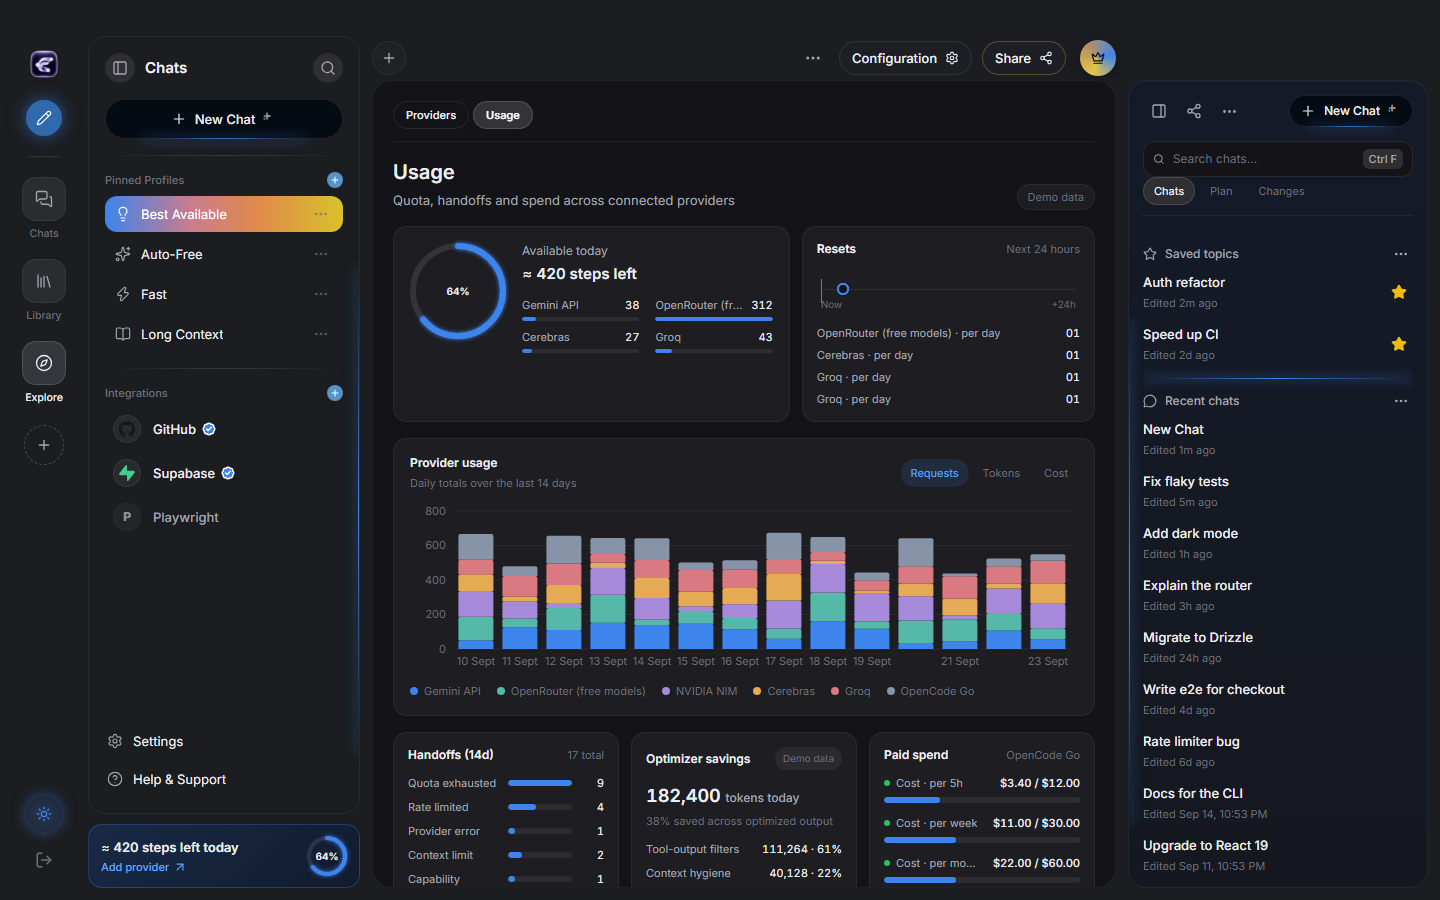
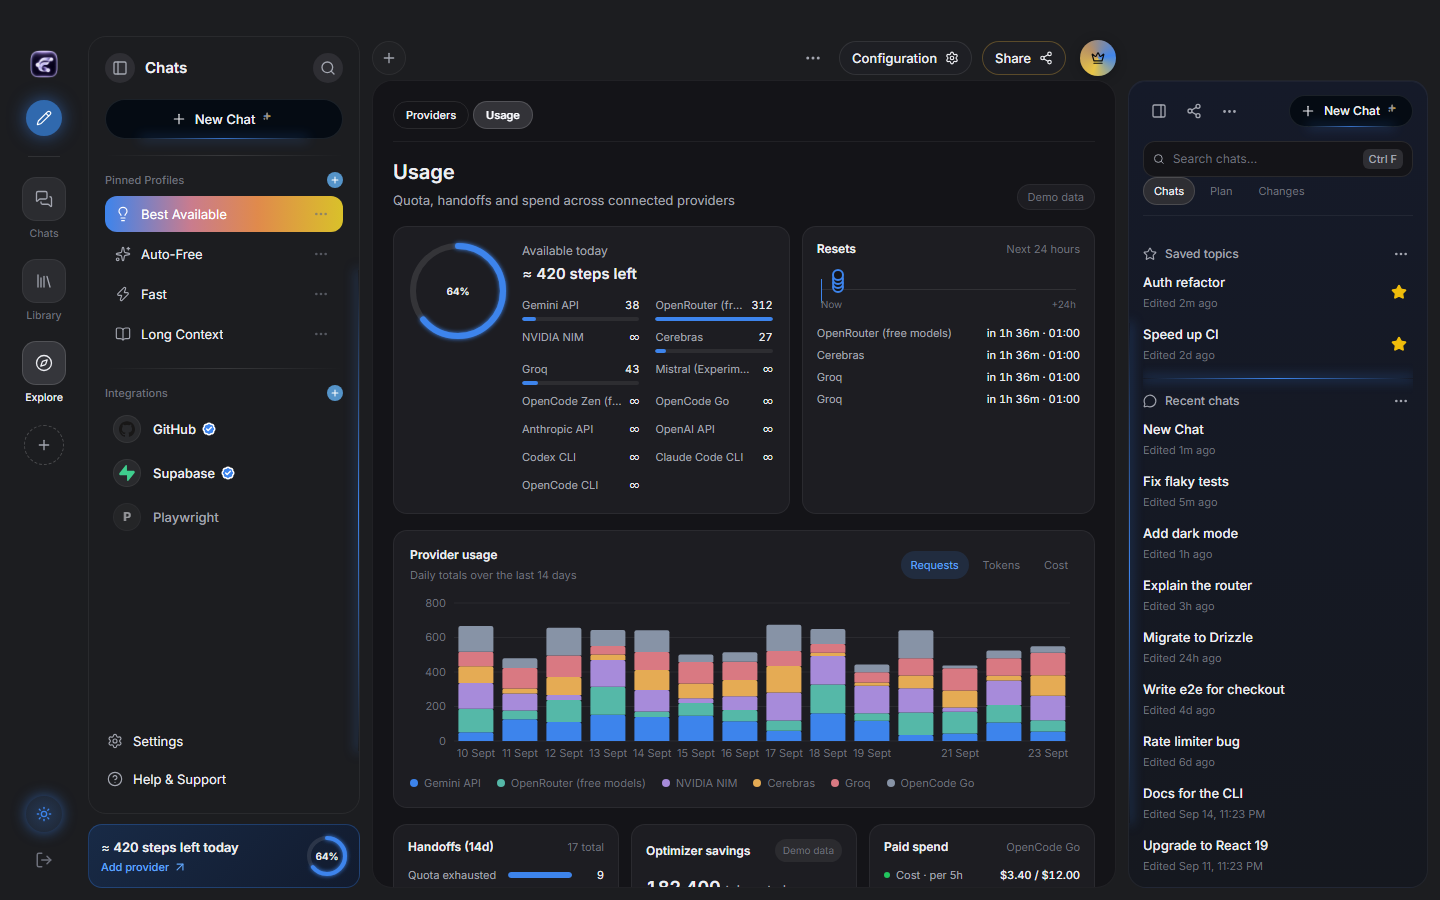
fix(desktop,ui): brand marks on provider cards, Free/Promo/Paid/CLI tag wording, working resets timeline, no-cap providers [A4a-d1]

diff --git a/packages/ui/src/components/charts/ResetsTimeline.tsx b/packages/ui/src/components/charts/ResetsTimeline.tsx
@@ -1,8 +1,20 @@
 import { useEffect, useState } from 'react';
 import type { CapacitySummary } from '@ferry/shared';
 
+function relativeLabel(date: string, now: number): string {
+  const minutes = Math.max(1, Math.floor((new Date(date).getTime() - now) / 60_000));
+  const hours = Math.floor(minutes / 60);
+  const remainingMinutes = minutes % 60;
+  if (hours === 0) return `in ${String(remainingMinutes)}m`;
+  return `in ${String(hours)}h ${String(remainingMinutes)}m`;
+}
+
 function timeLabel(date: string): string {
-  return new Intl.DateTimeFormat(undefined, { hour: 'numeric' }).format(new Date(date));
+  return new Intl.DateTimeFormat(undefined, {
+    hour: '2-digit',
+    hourCycle: 'h23',
+    minute: '2-digit',
+  }).format(new Date(date));
 }
 export function ResetsTimeline({
   summary,
@@ -21,9 +33,10 @@ export function ResetsTimeline({
     };
   }, []);
   const end = now + 86_400_000;
-  const resets = summary.nextResets.filter(
-    (reset) => new Date(reset.at).getTime() > now && new Date(reset.at).getTime() < end,
-  );
+  const resets = summary.nextResets
+    .filter((reset) => new Date(reset.at).getTime() > now && new Date(reset.at).getTime() < end)
+    .sort((a, b) => new Date(a.at).getTime() - new Date(b.at).getTime());
+  const placedMarkers: { position: number; lane: number }[] = [];
   return (
     <section
       aria-label="Upcoming quota resets"
@@ -47,12 +60,27 @@ export function ResetsTimeline({
             0,
             Math.min(100, ((new Date(reset.at).getTime() - now) / 86_400_000) * 100),
           );
+          const occupiedLanes = new Set(
+            placedMarkers
+              .filter((marker) => Math.abs(marker.position - position) < 4.5)
+              .map((marker) => marker.lane),
+          );
+          let lane = 0;
+          while (occupiedLanes.has(lane)) lane += 1;
+          placedMarkers.push({ position, lane });
+          const providerName = providerNames[reset.providerId] ?? reset.providerId;
+          const label = `${providerName} · ${relativeLabel(reset.at, now)} · ${timeLabel(reset.at)}`;
           return (
-            <span
-              className="absolute top-3.5 size-3 -translate-x-1/2 rounded-full border-2 border-blue-500 bg-canvas"
+            <button
+              aria-label={label}
+              className="absolute size-3 -translate-x-1/2 rounded-full border-2 border-blue-500 bg-canvas hover:scale-125 focus-visible:outline-none focus-visible:ring-2 focus-visible:ring-blue-500/40"
               key={reset.windowId}
-              style={{ left: `${String(position)}%` }}
-              title={`${providerNames[reset.providerId] ?? reset.providerId} · ${timeLabel(reset.at)}`}
+              style={{
+                left: `${String(position)}%`,
+                top: `${String(Math.max(0, 12 - lane * 4))}px`,
+              }}
+              title={label}
+              type="button"
             />
           );
         })}
@@ -65,10 +93,11 @@ export function ResetsTimeline({
         {resets.slice(0, 4).map((reset) => (
           <li className="flex justify-between gap-2 text-meta" key={reset.windowId}>
             <span className="truncate text-text-2">
-              {providerNames[reset.providerId] ?? reset.providerId} ·{' '}
-              {reset.label.split('·').at(-1)?.trim() ?? reset.label}
+              {providerNames[reset.providerId] ?? reset.providerId}
             </span>
-            <time className="shrink-0 tabular-nums text-text-1">{timeLabel(reset.at)}</time>
+            <time className="shrink-0 tabular-nums text-text-1">
+              {relativeLabel(reset.at, now)} · {timeLabel(reset.at)}
+            </time>
           </li>
         ))}
         {resets.length === 0 && <li className="text-meta text-text-3">No scheduled resets</li>}

diff --git a/packages/ui/src/components/charts/ResetsTimeline.test.tsx b/packages/ui/src/components/charts/ResetsTimeline.test.tsx
@@ -1,6 +1,6 @@
 // @vitest-environment jsdom
-import { render, screen } from '@testing-library/react';
-import { describe, expect, it } from 'vitest';
+import { cleanup, render, screen } from '@testing-library/react';
+import { afterEach, describe, expect, it, vi } from 'vitest';
 import type { CapacitySummary } from '@ferry/shared';
 import { ResetsTimeline } from './ResetsTimeline';
 const summary: CapacitySummary = {
@@ -13,8 +13,51 @@ const summary: CapacitySummary = {
   updatedAt: new Date().toISOString(),
 };
 describe('ResetsTimeline', () => {
+  afterEach(() => {
+    cleanup();
+    vi.useRealTimers();
+  });
+
   it('provides a useful empty state for reset schedules', () => {
     render(<ResetsTimeline summary={summary} providerNames={{}} />);
     expect(screen.getByText('No scheduled resets')).toBeTruthy();
+  });
+
+  it('draws and labels each reset within the next 24 hours', () => {
+    vi.useFakeTimers();
+    const now = new Date('2026-09-23T12:00:00.000Z');
+    vi.setSystemTime(now);
+    type ProviderId = CapacitySummary['nextResets'][number]['providerId'];
+    const resets = [
+      { providerId: 'alpha' as ProviderId, windowId: 'alpha-day', label: 'Daily', minutes: 127 },
+      { providerId: 'beta' as ProviderId, windowId: 'beta-day', label: 'Daily', minutes: 127 },
+      { providerId: 'gamma' as ProviderId, windowId: 'gamma-week', label: 'Weekly', minutes: 720 },
+      {
+        providerId: 'delta' as ProviderId,
+        windowId: 'delta-month',
+        label: 'Monthly',
+        minutes: 1380,
+      },
+    ].map(({ minutes, ...reset }) => ({
+      ...reset,
+      at: new Date(now.getTime() + minutes * 60_000).toISOString(),
+    }));
+    render(
+      <ResetsTimeline
+        providerNames={{ alpha: 'Alpha', beta: 'Beta', gamma: 'Gamma', delta: 'Delta' }}
+        summary={{ ...summary, nextResets: resets }}
+      />,
+    );
+
+    const markers = screen.getAllByRole('button');
+    expect(markers).toHaveLength(4);
+    const markerPositions = markers.map((marker) =>
+      Number.parseFloat(marker.getAttribute('style')?.match(/left: ([\d.]+)%/)?.[1] ?? '0'),
+    );
+    expect(markerPositions).toEqual([...markerPositions].sort((a, b) => a - b));
+    expect(markers[0]?.getAttribute('style')).not.toBe(markers[1]?.getAttribute('style'));
+    expect(markers[0]?.getAttribute('aria-label')).toContain('Alpha · in 2h 7m ·');
+    expect(screen.getAllByText(/in 2h 7m · \d{2}:\d{2}/)).toHaveLength(2);
+    expect(screen.getByText(/in 23h 0m · \d{2}:\d{2}/)).toBeTruthy();
   });
 });

diff --git a/apps/desktop/src/renderer/app/explore/Usage.tsx b/apps/desktop/src/renderer/app/explore/Usage.tsx
@@ -140,26 +140,34 @@ export function UsageCanvas() {
                 ≈ <CountUp to={capacity?.stepsLeftToday ?? 0} /> steps left
               </p>
               <ul className="mt-3 grid grid-cols-2 gap-x-4 gap-y-2">
-                {(capacity?.perProvider ?? [])
-                  .filter((item) => item.stepsLeft !== null)
-                  .map((item) => (
-                    <li className="min-w-0" key={item.providerId}>
-                      <div className="mb-1 flex justify-between gap-2 text-meta">
-                        <span className="truncate text-text-2">
-                          {names[item.providerId] ?? item.providerId}
+                {(capacity?.perProvider ?? []).map((item) => (
+                  <li className="min-w-0" key={item.providerId}>
+                    <div className="mb-1 flex justify-between gap-2 text-meta">
+                      <span className="truncate text-text-2">
+                        {names[item.providerId] ?? item.providerId}
+                      </span>
+                      {item.stepsLeft === null ? (
+                        <span
+                          aria-label={`${names[item.providerId] ?? item.providerId} has no daily cap`}
+                          className="text-label text-text-1"
+                          title="No daily cap"
+                        >
+                          ∞
                         </span>
-                        <span className="tabular-nums text-text-1">
-                          {item.stepsLeft === null ? '—' : format(item.stepsLeft)}
-                        </span>
-                      </div>
+                      ) : (
+                        <span className="tabular-nums text-text-1">{format(item.stepsLeft)}</span>
+                      )}
+                    </div>
+                    {item.stepsLeft !== null && (
                       <div className="h-1 overflow-hidden rounded-pill bg-white/[0.07]">
                         <span
                           className="block h-full rounded-pill bg-blue-500"
-                          style={{ width: `${String(((item.stepsLeft ?? 0) / maxSteps) * 100)}%` }}
+                          style={{ width: `${String((item.stepsLeft / maxSteps) * 100)}%` }}
                         />
                       </div>
-                    </li>
-                  ))}
+                    )}
+                  </li>
+                ))}
               </ul>
             </div>
           </section>

diff --git a/packages/ui/src/components/primitives/index.tsx b/packages/ui/src/components/primitives/index.tsx
@@ -1,6 +1,14 @@
 import { useId, type ButtonHTMLAttributes, type CSSProperties, type ReactNode } from 'react';
 import { cva, type VariantProps } from 'class-variance-authority';
-import { siGithub, siSupabase } from 'simple-icons';
+import {
+  siAnthropic,
+  siGithub,
+  siGooglegemini,
+  siMistralai,
+  siNvidia,
+  siOpenrouter,
+  siSupabase,
+} from 'simple-icons';
 import { BadgeCheck, Plus, Sparkles } from 'lucide-react';
 import { GlowLine } from '../../effects/GlowLine';
 import { cn } from '../../lib/cn';
@@ -142,7 +150,12 @@ export function VerifiedBadge({ className }: { className?: string }) {
 }
 
 const brandIcons: Record<string, typeof siGithub | undefined> = {
+  anthropic: siAnthropic,
   github: siGithub,
+  googlegemini: siGooglegemini,
+  mistralai: siMistralai,
+  nvidia: siNvidia,
+  openrouter: siOpenrouter,
   supabase: siSupabase,
 };
 export function BrandIcon({

diff --git a/packages/ui/src/components/providers/ProviderCard.test.tsx b/packages/ui/src/components/providers/ProviderCard.test.tsx
@@ -26,7 +26,13 @@ describe('ProviderCard', () => {
   it('exposes provider key status and actions', () => {
     render(<ProviderCard provider={provider} onTest={vi.fn()} onManageKey={vi.fn()} />);
     expect(screen.getByText('Key: missing')).toBeTruthy();
+    expect(screen.getByText('Free')).toBeTruthy();
     expect(screen.getByRole('button', { name: 'Test Gemini API' })).toBeTruthy();
     expect(screen.getByRole('button', { name: 'Manage key' })).toBeTruthy();
+  });
+
+  it('describes providers without a daily step cap', () => {
+    render(<ProviderCard provider={{ ...provider, stepsLeftToday: null }} />);
+    expect(screen.getByText('Rate-limited · no daily cap')).toBeTruthy();
   });
 });

diff --git a/packages/ui/src/components/providers/ProviderCard.tsx b/packages/ui/src/components/providers/ProviderCard.tsx
@@ -101,7 +101,13 @@ export function ProviderCard({
         )}
         <footer className="flex flex-wrap items-center gap-2 border-t border-border-hair pt-2.5">
           <span className="mr-auto text-meta text-text-2">
-            ≈ <CountUp to={provider.stepsLeftToday ?? 0} /> steps today
+            {provider.stepsLeftToday === null ? (
+              'Rate-limited · no daily cap'
+            ) : (
+              <>
+                ≈ <CountUp to={provider.stepsLeftToday} /> steps today
+              </>
+            )}
           </span>
           <Pill
             aria-label={`Test ${provider.name}`}

diff --git a/packages/ui/src/components/primitives/BrandIcon.test.tsx b/packages/ui/src/components/primitives/BrandIcon.test.tsx
@@ -6,6 +6,8 @@ describe('BrandIcon', () => {
   it('renders a brand icon and monogram fallback', () => {
     const { rerender } = render(<BrandIcon slug="github" label="GitHub" />);
     expect(screen.getByRole('img', { name: 'GitHub' })).toBeTruthy();
+    rerender(<BrandIcon slug="openrouter" label="OpenRouter" />);
+    expect(screen.getByRole('img', { name: 'OpenRouter' }).querySelector('svg')).toBeTruthy();
     rerender(<BrandIcon slug="custom" />);
     expect(screen.getByText('C')).toBeTruthy();
   });

diff --git a/apps/desktop/src/renderer/app/explore/Explore.test.tsx b/apps/desktop/src/renderer/app/explore/Explore.test.tsx
@@ -112,7 +112,7 @@ describe('Explore providers and models', () => {
   it('filters providers and probes with feedback', async () => {
     const user = userEvent.setup();
     setup();
-    await screen.findByRole('button', { name: 'Test Mistral' });
+    await screen.findByRole('button', { name: 'Test Mistral' }, { timeout: 10_000 });
     await user.click(
       within(screen.getByRole('region', { name: 'Provider filter' })).getByRole('button', {
         name: 'Free',

diff --git a/packages/ui/src/components/providers/TagBadge.tsx b/packages/ui/src/components/providers/TagBadge.tsx
@@ -3,7 +3,7 @@ import { cn } from '../../lib/cn';
 export type TagBadgeKind = 'legit' | 'promo' | 'paid' | 'cli' | 'caution';
 
 const labels: Record<TagBadgeKind, string> = {
-  legit: 'Legit',
+  legit: 'Free',
   promo: 'Promo',
   paid: 'Paid',
   cli: 'CLI',
